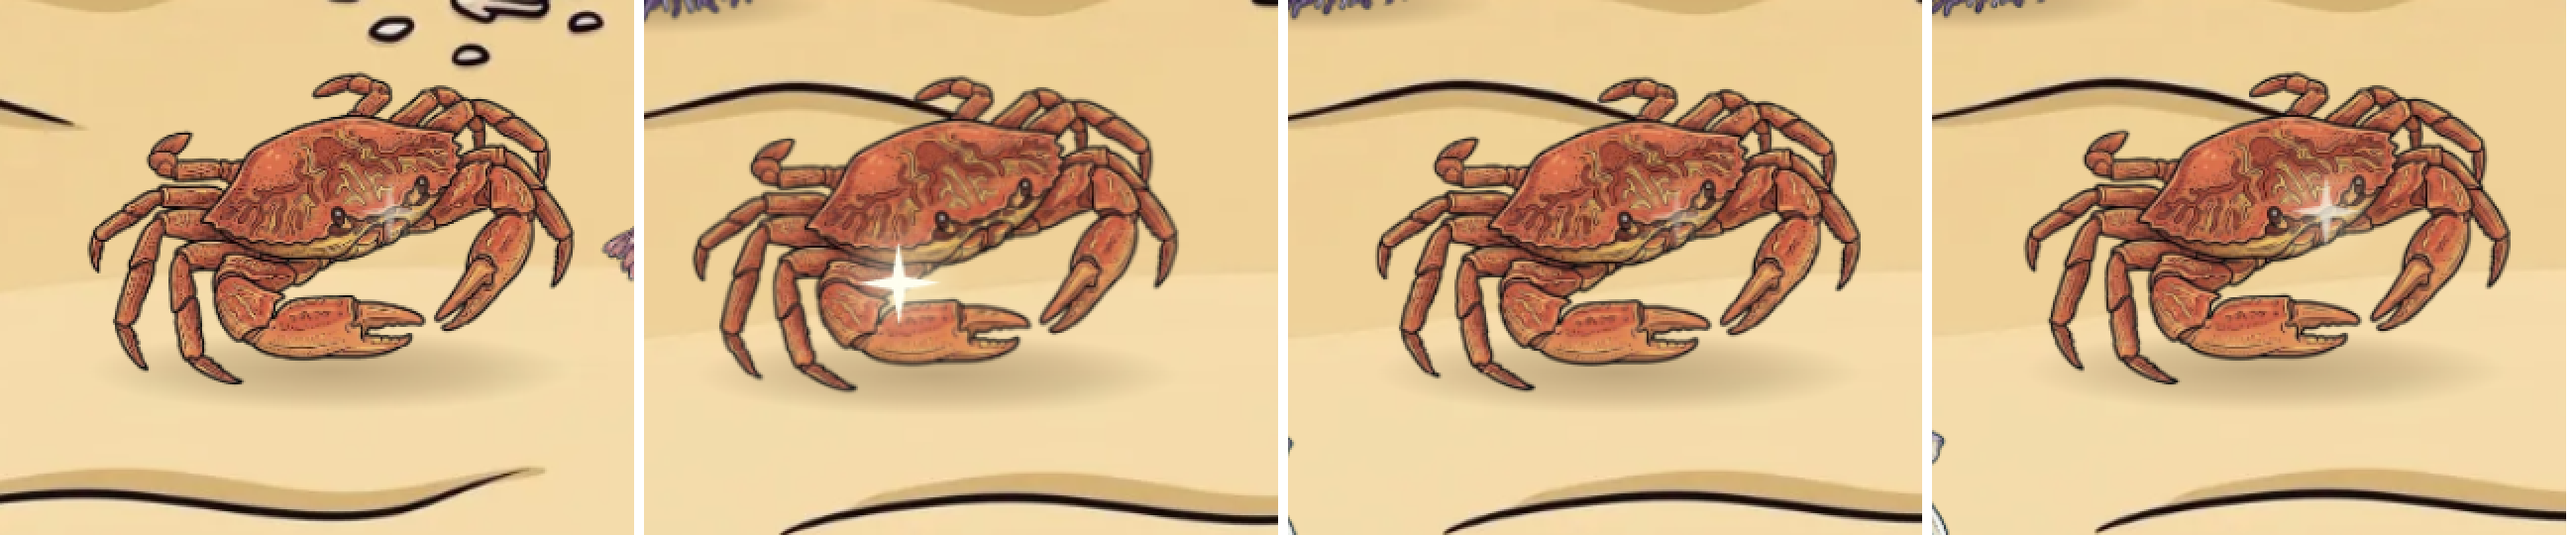
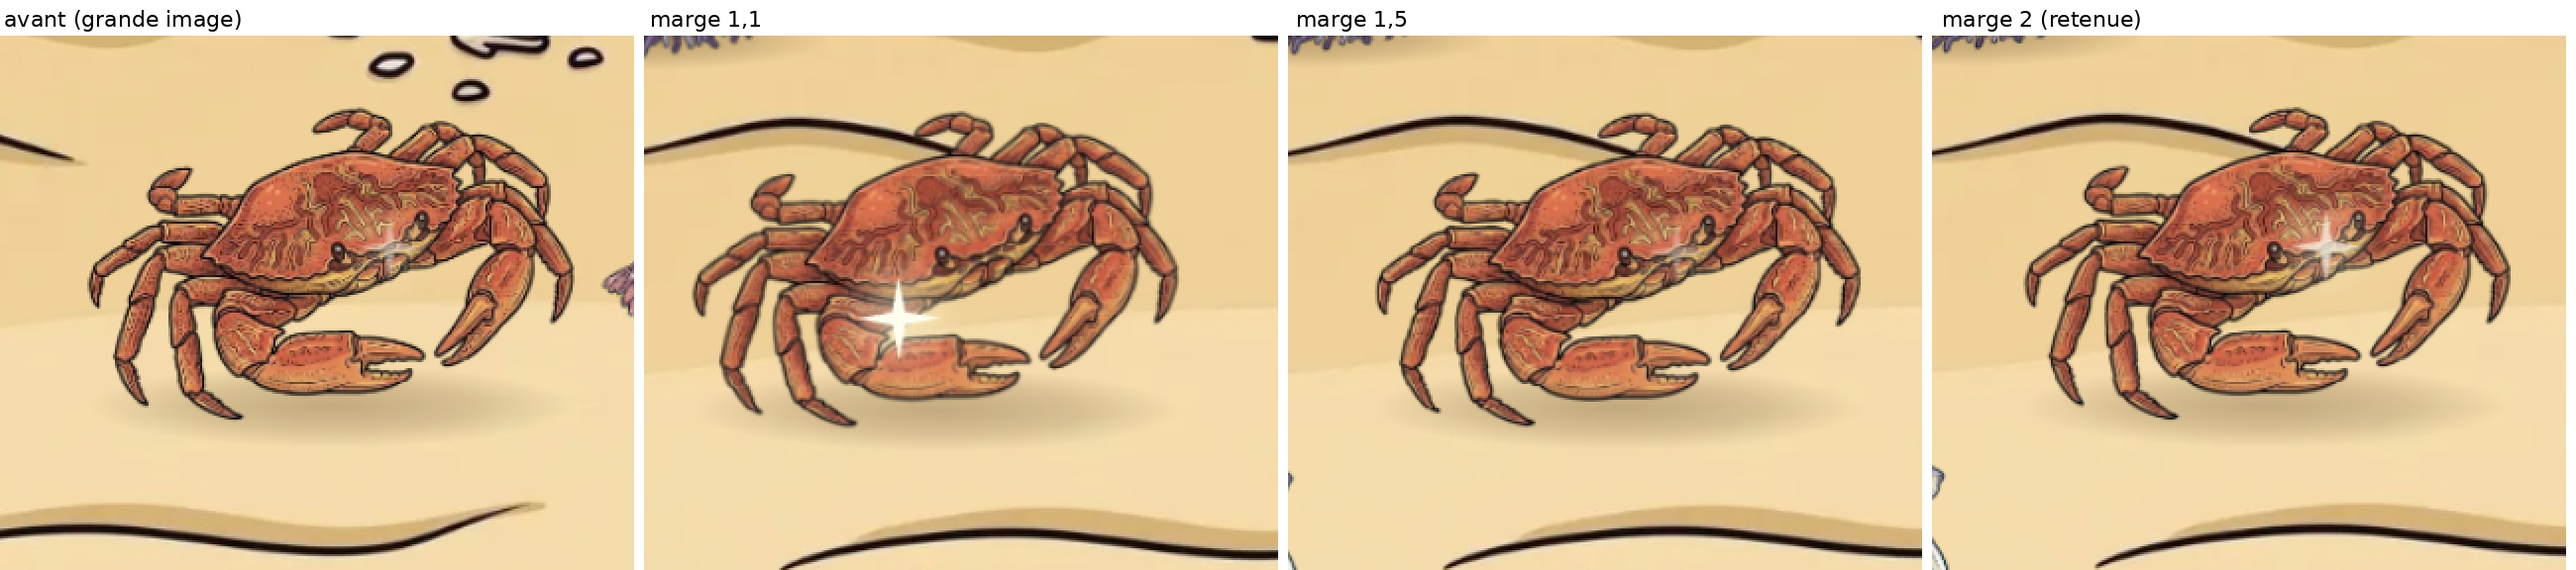
Netteté du récif : constats de la relecture indépendante traités (guide du parent, ligne du journal sans répétition, note de l'espace parent, étiquettes des planches) ; rapport de relecture
Claude-Session: https://claude.ai/code/session_013eorU2pZXnE27Wfn964JaP

diff --git a/app/js/parent/parent.js b/app/js/parent/parent.js
@@ -545,7 +545,7 @@ export class ParentSpace {
       const tout = l.length > 40 && h("button", { class: "pa-btn", onclick: () => { montrer(l.length); tout.remove(); } }, `Tout afficher (${l.length})`);
       montrer(40);
       page.append(h("div", { class: "pa-card-box pa-incidents pa-journal-box" }, h("h2", {}, "Journal technique"),
-        h("p", { class: "pa-note" }, "Ce que l'application a noté sur son fonctionnement (les 300 derniers événements, les plus récents en haut) : chaque lancement et le temps avant le premier écran, les mises à jour, les passages en arrière-plan, le son, les lectures refusées par la tablette, les erreurs, les écrans ouverts, et chaque fois que le récif s'allège parce que la tablette peine (« récif allégé », avec le temps par image mesuré). Rien sur l'enfant. Ces lignes sont faites pour la conception : vous n'avez pas à les comprendre. Une soirée normale en contient beaucoup (lancements, écrans, passages en arrière-plan). Après un problème, touchez « Exporter le journal technique » : le fichier arrive dans les Téléchargements de la tablette ; envoyez-le à la conception (par e-mail par exemple), avec l'heure à laquelle le problème est arrivé."),
+        h("p", { class: "pa-note" }, "Ce que l'application a noté sur son fonctionnement (les 300 derniers événements, les plus récents en haut) : chaque lancement et le temps avant le premier écran, les mises à jour, les passages en arrière-plan, le son, les lectures refusées par la tablette, les erreurs, les écrans ouverts, et chaque fois que le récif s'allège parce que la tablette peine (« récif · allégé », avec le temps par image mesuré). Rien sur l'enfant. Ces lignes sont faites pour la conception : vous n'avez pas à les comprendre (sauf, si vous le souhaitez, les lignes « récif · allégé » : le niveau va de 1 à 3, plus il est haut, plus le récif a été allégé ; au-delà de 33 ms par image, la tablette peine). Une soirée normale en contient beaucoup (lancements, écrans, passages en arrière-plan). Après un problème, touchez « Exporter le journal technique » : le fichier arrive dans les Téléchargements de la tablette ; envoyez-le à la conception (par e-mail par exemple), avec l'heure à laquelle le problème est arrivé."),
         h("div", { class: "pa-row" }, h("button", { class: "pa-btn", "data-export": "journal", onclick: async () => { const name = D.fileName("journal-technique", "json"); download(name, JSON.stringify(await lireJournal(), null, 1), "application/json"); msg.textContent = `Fichier « ${name} » enregistré dans les téléchargements.`; } }, "Exporter le journal technique"), tout),
         liste));
     });

diff --git a/app/js/session/reef.js b/app/js/session/reef.js
@@ -45,8 +45,8 @@ export const SEUIL_MS = 33;
 export function niveauxRecif(dpr) {
   const d0 = Math.min(2, dpr || 1), leger = { cadence: 15, bandes: 0.5 };
   const l = [{ nom: "complet", densite: d0, cadence: 0, bandes: 1 }, { nom: "ondulation des créatures ralentie", densite: d0, ...leger }];
-  if (d0 > 1.5) l.push({ nom: "densité 1,5", densite: 1.5, ...leger });
-  if (d0 > 1) l.push({ nom: "densité 1", densite: 1, ...leger });
+  if (d0 > 1.5) l.push({ nom: "définition un peu réduite", densite: 1.5, ...leger });
+  if (d0 > 1) l.push({ nom: "définition réduite de moitié", densite: 1, ...leger });
   return l;
 }
 // un cran de plus : passé les 3 premières secondes (ou les 2 secondes qui suivent un cran), si l'intervalle moyen des dernières
@@ -156,7 +156,7 @@ export class Reef {
           this.niveau++; gaps.length = 0; t0 = t - (3000 - APRES_CRAN_MS);
           const p = palier(); Object.assign(qualite, p);
           if (p.densite !== avant) this.api?.resize();
-          noter("récif", `récif allégé : ${p.nom}`, { niveauRecif: this.niveau, niveauxRecif: this.paliers.length - 1, densiteDessin: p.densite, intervalleMs: Math.round(ms * 10) / 10, zoneRecif: this.api?.zone || null });
+          noter("récif", `allégé : ${p.nom}`, { niveauRecif: this.niveau, niveauxRecif: this.paliers.length - 1, densiteDessin: p.densite, intervalleMs: Math.round(ms * 10) / 10, zoneRecif: this.api?.zone || null });
         }
       },
     });

diff --git a/app/sw.js b/app/sw.js
@@ -24,7 +24,7 @@
 //    essayé en même temps, et sans l'un ni l'autre une page de secours, écrite ici, dit « Toucher pour réessayer » ;
 //  - ce qui arrive au service worker (version, installation, activation, erreurs) est noté dans le journal technique de
 //    l'espace parent (point 5 ; la même base que engine/journal.js).
-const VERSION = "eff50f65b860";
+const VERSION = "52ffab2755a1";
 const CACHE = `ocean-${VERSION}`;
 const PAQUET = 32, ESSAIS = 4;
 // la résolution des planches d'images de cet écran (main.js : sw.js?r=1 ou ?r=2) : on ne met en cache que

diff --git a/docs/GUIDE-PARENT.md b/docs/GUIDE-PARENT.md
@@ -516,13 +516,14 @@ Ce qui change pour l'enfant et pour vous :
 
 **Ce qui change** :
 
-- **Les créatures sont plus nettes et coûtent moins.** Chaque créature est une grande image (environ 600 pixels) affichée 4 à 8 fois plus petite. Avant, elle était réduite à chaque image, ce qui sautait des pixels. Maintenant, elle est réduite une seule fois, avec soin, à sa taille d'affichage, et le récif dessine cette petite image.
-- **L'allègement attend plus longtemps et procède par étapes.** Il ne commence qu'au-delà de 33 ms par image (moins de 30 images par seconde, le seuil fixé pour toute l'application). Il ralentit d'abord l'ondulation des créatures (elles nagent et se déplacent comme avant, seule leur ondulation est recalculée moins souvent), sans rien ôter à la netteté. La définition ne baisse qu'ensuite, d'abord un peu (1,5 au lieu de 2), puis, en dernier recours, de moitié comme avant.
-- **Vous pouvez le vérifier** : chaque allègement est écrit dans le **journal technique** (espace parent, « Données et réglages »), par exemple « récif · récif allégé : ondulation des créatures ralentie (niveau 1 sur 3, dessin en densité 2, 38,4 ms par image en moyenne, le lagon) ». Le niveau 3 sur 3 veut dire que la tablette a dû revenir à l'ancien mode flou.
+- **Les créatures sont plus nettes et coûtent moins.** Chaque créature est une grande image (environ 600 pixels) affichée jusqu'à 4 fois plus petite (8 fois quand le récif est allégé). Avant, elle était réduite à chaque image, ce qui sautait des pixels : c'étaient les petits carrés et les bords en escalier. Maintenant, elle est réduite une seule fois, avec soin, au double de sa taille d'affichage, et le récif dessine cette petite image : plus de petits carrés, à aucun niveau.
+- **L'allègement attend plus longtemps et procède par étapes.** Il ne commence qu'au-delà de 33 ms par image (moins de 30 images par seconde, le seuil fixé pour toute l'application). Niveau 1 : il ralentit l'ondulation des créatures (elles nagent et se déplacent comme avant, seule leur ondulation est recalculée moins souvent), sans rien ôter à la netteté. Niveau 2 : la définition baisse un peu (1,5 au lieu de 2) ; à l'œil, presque rien ne change. Niveau 3, en dernier recours : la définition baisse de moitié, comme avant ; les créatures sont alors plus douces, un peu floues, mais sans les petits carrés d'avant (comparaison dans `docs/maquettes/recif-nettete/`).
+- **Vous pouvez le vérifier** : chaque allègement est écrit dans le **journal technique** (espace parent, « Données et réglages »), par exemple « récif · allégé : ondulation des créatures ralentie (niveau 1 sur 3, dessin en densité 2, 38,4 ms par image en moyenne, le lagon) ». Comment lire : le niveau va de 1 à 3 (plus il est haut, plus le récif a été allégé) ; « ms par image » est le temps que mettait la tablette à ce moment-là (au-delà de 33, elle peine). Une visite peut écrire jusqu'à trois lignes, une par niveau, et chaque visite repart du plus net : la ligne la plus récente d'une visite donne le niveau atteint.
+- **Ce que nous ne savons pas encore** : sur notre banc d'essai (un ordinateur qui imite la tablette, mais dessine sans carte graphique, donc bien plus lentement), le récif descend au niveau 3 en quelques secondes. Votre tablette a une carte graphique : elle devrait s'arrêter plus haut, mais seul son journal le dira.
 
 **Aucune phrase à fabriquer.**
 
-**À essayer sur la tablette** : entrer dans le récif, regarder le poisson-clown, l'hippocampe et le crabe, puis rester une minute en faisant défiler la mer. Ensuite, ouvrir le journal technique : s'il n'y a aucune ligne « récif allégé », le récif est resté au plus net ; sinon, la ligne dit jusqu'où il est descendu et à quelle vitesse tournait la tablette. Si les créatures redeviennent floues, exporter le journal technique et le donner à la conception : il dira quoi alléger d'autre.
+**À essayer sur la tablette** : entrer dans le récif, regarder le poisson-clown, l'hippocampe et le crabe, puis rester une minute en faisant défiler la mer. Ensuite, ouvrir le journal technique : s'il n'y a aucune ligne « récif · allégé », le récif est resté au plus net ; sinon, la plus récente dit jusqu'où il est descendu et à quelle vitesse tournait la tablette. Dans deux cas, exporter le journal technique et le donner à la conception : si vous revoyez de petits carrés ou des bords en escalier sur les créatures (ce serait un défaut) ; ou si le récif atteint le niveau 3 à chaque visite et que les créatures vous paraissent trop douces (il faudra alors alléger autre chose avant la définition, par exemple les faisceaux de lumière : à décider ensemble).
 
 ## e) Ce qui reste approximatif ou à ajuster
 

diff --git a/tests/recette-fonctionnelle/out-recif-nettete/RELECTURE.md b/tests/recette-fonctionnelle/out-recif-nettete/RELECTURE.md
@@ -1,0 +1,27 @@
+# Relecture indépendante du lot « Netteté du récif » (31 octobre 2026)
+
+Un agent relecteur qui n'avait pas vu le travail a reçu la section « Les deux personnes à incarner » de `docs/archives/PROMPT-RECETTE-LOT3.md` et les captures de `docs/maquettes/recif-nettete/`, puis, après son premier jugement, la section « Le récif vivant » de `docs/SPEC.md`, la section du lot dans `docs/GUIDE-PARENT.md` et la ligne du journal technique (`ligneJournal`). Rien de bloquant.
+
+## Phase 1 : l'enfant
+
+| N° | Gravité | Constat | Traitement |
+| --- | --- | --- | --- |
+| 1 | — | Le niveau 0 est mieux qu'avant : contours lisses, sans petits pixels durs. | — |
+| 2 | — | Niveaux 1 et 2 : pas de différence visible pour l'enfant. | — |
+| 3 | — | La pixelisation vue par le parent a disparu : « avant · allégé » a un grain en escalier, le niveau 3 n'en a plus. | — |
+| 4 | gênant | Le niveau 3 est doux, presque flou (l'œil de l'hippocampe s'efface ; la raie perd sa texture), et le banc y descend en quelques secondes. | Reste : le niveau 3 est le dernier recours demandé par la fiche (la densité 1 d'avant, sans le grain). Le banc y descend toujours parce qu'il dessine sans carte graphique (`docs/JOURNAL-CONCEPTION.md`, lot « Netteté du récif », point 2) ; la tablette dira où elle s'arrête. Si elle atteint le niveau 3 à chaque visite, la suite proposée au parent : alléger les faisceaux de lumière avant la définition, ou garder les créatures plus nettes que le décor (question ouverte de la demande de fusion). Le guide le dit maintenant. |
+| 5 | cosmétique | Traits du sable en pointillés au niveau 3 sur le petit smartphone. | Reste : déjà là avant (densité 1 sur un écran de 640 × 360) ; c'est le décor de la maquette, pas les créatures. |
+| 6 | cosmétique | Chaque case des planches est prise à un instant différent (l'étincelle change de place). | Reste : figer le temps changerait le récif mesuré ; les créatures restent comparables. |
+| 7 | cosmétique | Les planches des marges n'ont pas d'étiquettes. | Corrigé : étiquettes ajoutées. |
+
+## Phase 2 : le parent
+
+| N° | Gravité | Constat | Traitement |
+| --- | --- | --- | --- |
+| 8 | gênant | Le guide ne dit pas que le banc descend au niveau 3 en quelques secondes : le parent risque de conclure que rien n'a changé. | Corrigé : le guide dit ce que le banc mesure, pourquoi il est plus lent que la tablette, et que seul le journal de la tablette le dira. |
+| 9 | gênant | Le guide disait que le niveau 3 était « l'ancien mode flou » ; les captures montrent qu'il n'a plus de grain. | Corrigé : « plus douces, un peu floues, mais sans les petits carrés d'avant ». |
+| 10 | gênant | « Si les créatures redeviennent floues » est ambigu (le niveau 3 est doux normalement). | Corrigé : le critère est « de petits carrés ou des bords en escalier » (un défaut), ou le niveau 3 à chaque visite avec des créatures trop douces (une décision à prendre ensemble). |
+| 11 | cosmétique | La ligne du journal répète « récif · récif allégé », et « densité 1,5 » deux fois. | Corrigé : « récif · allégé : définition un peu réduite (niveau 2 sur 3, dessin en densité 1,5, … ms par image en moyenne, le lagon) » ; clé de lecture dans le guide et dans la note de l'espace parent. |
+| 12 | cosmétique | Jusqu'à trois lignes par visite, et chaque visite repart du niveau 0. | Corrigé : le guide le dit (la ligne la plus récente d'une visite donne le niveau atteint). |
+| 13 | cosmétique | La note de l'espace parent dit « vous n'avez pas à les comprendre », le guide demande de lire la ligne du récif. | Corrigé : la note fait l'exception pour les lignes « récif · allégé », avec leur clé de lecture. |
+| 14 | cosmétique | Le guide disait « à sa taille d'affichage », la spécification « au double ». | Corrigé : « au double de sa taille d'affichage ». |

diff --git a/docs/SPEC.md b/docs/SPEC.md
@@ -711,7 +711,7 @@ Lot « La boutique du récif » (octobre 2026). Les règles sont dans `app/conte
 - **Netteté** (lot « Netteté du récif », constat du parent du 31 octobre 2026 : les créatures pixelisées sur la tablette, nettes les premières secondes puis floues) :
   - chaque créature est dessinée depuis une image **déjà réduite** une fois, par moitiés successives (chaque moitié fait la moyenne de 2 × 2 pixels), jusqu'au double de sa taille d'affichage : la dernière réduction, faite au dessin, est de moins de deux fois, donc sans crénelage, et chaque image relit beaucoup moins de pixels. L'image est refaite si la densité du dessin change ; la grande image sert en attendant (au plus deux réductions par image) et pendant l'arrivée d'une créature achetée, quand elle grossit ;
   - **l'allègement, par crans**, au budget de `CLAUDE.md` (30 images/s au minimum) : passé les 3 premières secondes, si l'intervalle moyen des dernières images (60 au plus, 10 au moins) dépasse **33 ms**, un cran de plus, puis 2 s sans nouveau cran. Les crans : 0, complet (la densité de l'écran, au plus 2) ; 1, l'ondulation des créatures refaite au plus 15 fois par seconde et au plus une image sur deux (chaque créature déformée gardée dans une image entre-temps, dessinée d'un seul coup) et deux fois moins de bandes de déformation ; 2, en plus, la densité 1,5 ; 3, en plus, la densité 1, en dernier recours (les crans 2 et 3 seulement si l'écran est plus dense). On ne remonte pas pendant la visite ; chaque visite repart du cran 0 ;
-  - **chaque cran est noté dans le journal technique** de l'espace parent : le niveau, la densité du dessin, l'intervalle moyen mesuré, la zone de la mer (« récif · récif allégé : densité 1,5 (niveau 2 sur 3, dessin en densité 1,5, 41,2 ms par image en moyenne, le lagon) »).
+  - **chaque cran est noté dans le journal technique** de l'espace parent : le niveau, la densité du dessin, l'intervalle moyen mesuré, la zone de la mer (« récif · allégé : définition un peu réduite (niveau 2 sur 3, dessin en densité 1,5, 41,2 ms par image en moyenne, le lagon) »).
 - **Fabrication** : l'atelier (`art/tools/export-recif.mjs`) extrait les images de la maquette dans `app/assets/recif/` et fabrique le module de l'application (`app/js/recif/recif-vivant.js`) **à partir du script de la maquette lui-même**, sans le réécrire : seuls ses raccords avec l'application sont retouchés (l'écran, le toucher, la carte, les créatures possédées, les brillantes) ; depuis le lot « Netteté du récif », le dessin des créatures (`lagBlit`) est remplacé par l'outil : la même déformation, depuis l'image réduite, selon le cran d'allègement. La maquette n'est jamais modifiée ; si elle change, l'export refait le module. Quatre créatures portent un autre nom dans la maquette que dans `cartes.json` (bénitier, méduse, ver tubicole, requin du Groenland) : une table de correspondance.
 
 ## 11. L'univers, la voix et le son
